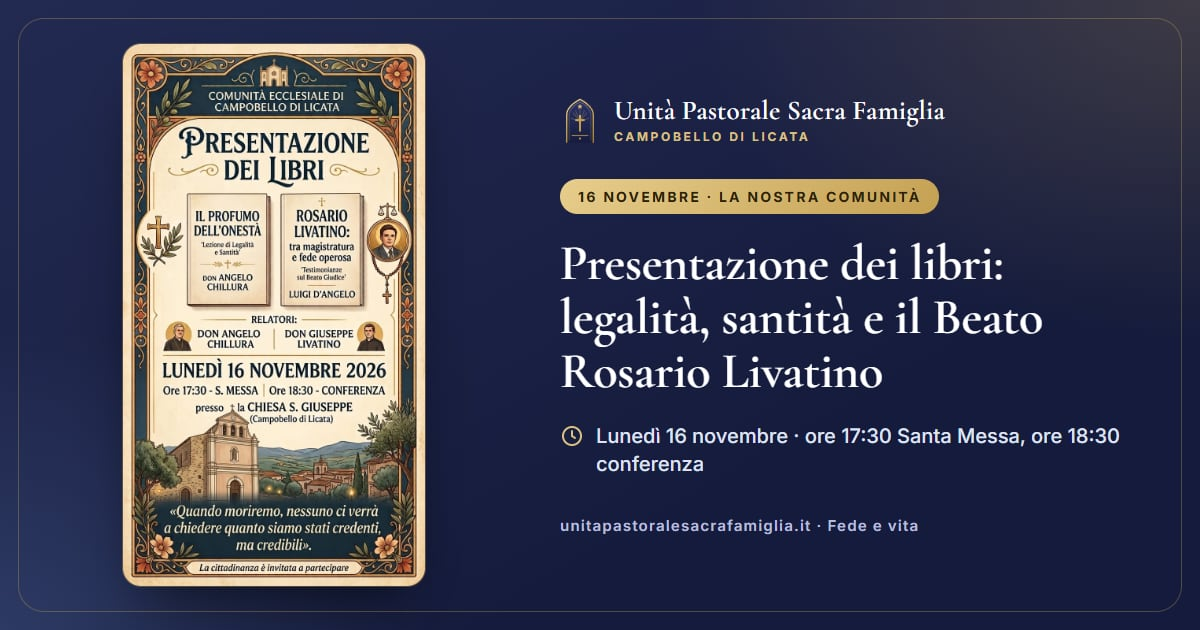
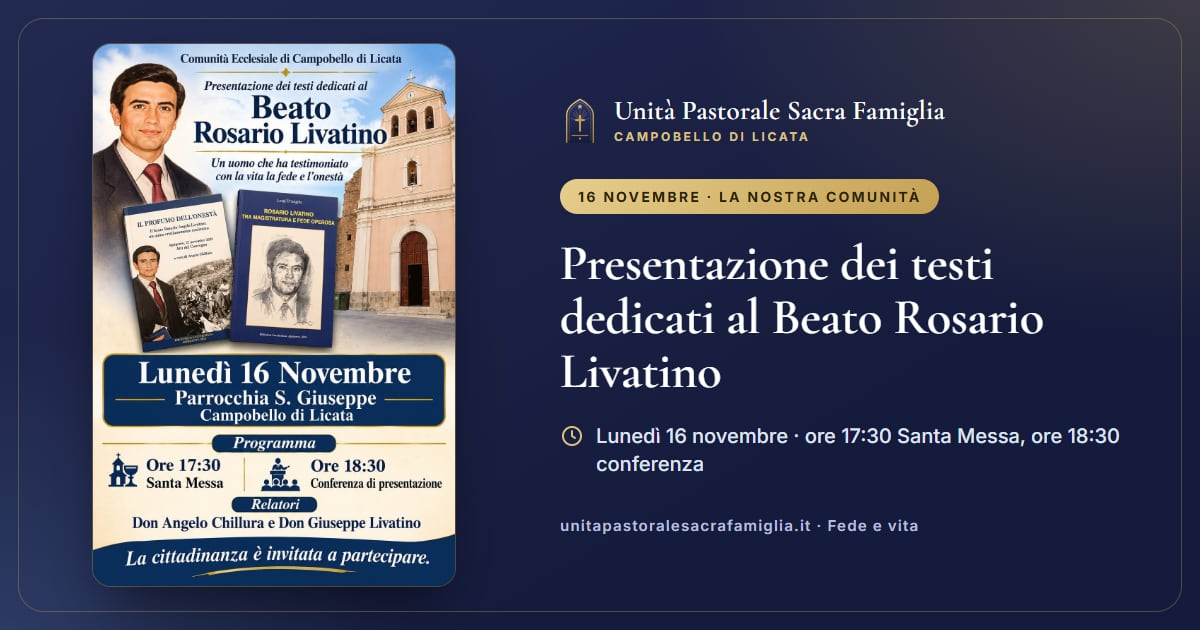
Messa nella Cappella gentilizia di Gesù e Maria (4 novembre 2026): card in evidenza con galleria di 5 foto e condivisione; nuova locandina della presentazione dei testi sul Beato Rosario Livatino (16 novembre) con i titoli reali dei libri
Claude-Session: https://claude.ai/code/session_014ELeEckvHswvvwvchSjZ4Y

Changed region(s): [[0.0617, 0.0603, 0.4008, 0.9349], [0.4625, 0.4524, 0.8633, 0.6333], [0.74, 0.3921, 0.8325, 0.4524]]

diff --git a/fede-e-vita.html b/fede-e-vita.html
@@ -67,7 +67,7 @@
 {"@context": "https://schema.org", "@type": "Event", "name": "Oratorio Terza Età… per tutte le età — Oratorio Gesù e Maria", "startDate": "2026-10-20T15:45:00+02:00", "eventStatus": "https://schema.org/EventScheduled", "eventSchedule": {"@type": "Schedule", "repeatFrequency": "P1W", "byDay": "https://schema.org/Tuesday", "startTime": "15:45", "scheduleTimezone": "Europe/Rome"}, "eventAttendanceMode": "https://schema.org/OfflineEventAttendanceMode", "location": {"@type": "Place", "name": "Oratorio della Parrocchia Gesù e Maria", "address": {"@type": "PostalAddress", "addressLocality": "Campobello di Licata", "addressRegion": "AG", "postalCode": "92023", "addressCountry": "IT"}}, "image": "https://www.unitapastoralesacrafamiglia.it/assets/img/avvisi/oratorio-terza-eta.jpg", "description": "Ogni martedì alle 15:45 nell'Oratorio Gesù e Maria: momenti di stare insieme, ognuno con il proprio talento e arte (ricamo, uncinetto, lavoro a maglia e ai ferri, tombolo, merletto ad ago). Per la terza età e per tutte le età.", "audience": {"@type": "PeopleAudience", "audienceType": "Terza età e persone di tutte le età"}, "organizer": {"@type": "Organization", "name": "Unità Pastorale Sacra Famiglia", "url": "https://www.unitapastoralesacrafamiglia.it/"}, "isAccessibleForFree": true}
 </script>
 <script type="application/ld+json">
-{"@context": "https://schema.org", "@type": "Event", "name": "Presentazione dei libri «Il profumo dell'onestà» e «Rosario Livatino: tra magistratura e fede operosa»", "startDate": "2026-11-16T17:30:00+01:00", "eventStatus": "https://schema.org/EventScheduled", "eventAttendanceMode": "https://schema.org/OfflineEventAttendanceMode", "location": {"@type": "Church", "name": "Chiesa di San Giuseppe", "address": {"@type": "PostalAddress", "streetAddress": "Piazza San Giuseppe", "addressLocality": "Campobello di Licata", "addressRegion": "AG", "postalCode": "92023", "addressCountry": "IT"}}, "image": "https://www.unitapastoralesacrafamiglia.it/assets/img/avvisi/presentazione-libri-2026.jpg", "description": "Lunedì 16 novembre 2026 nella Chiesa di San Giuseppe: alle 17:30 Santa Messa, alle 18:30 conferenza di presentazione dei libri «Il profumo dell'onestà. Lezione di legalità e santità» di don Angelo Chillura e «Rosario Livatino: tra magistratura e fede operosa. Testimonianze sul Beato Giudice» di Luigi D'Angelo. Relatori: don Angelo Chillura e don Giuseppe Livatino. La cittadinanza è invitata a partecipare.", "performer": [{"@type": "Person", "name": "don Angelo Chillura"}, {"@type": "Person", "name": "don Giuseppe Livatino"}], "organizer": {"@type": "Organization", "name": "Unità Pastorale Sacra Famiglia", "url": "https://www.unitapastoralesacrafamiglia.it/"}, "isAccessibleForFree": true}
+{"@context": "https://schema.org", "@type": "Event", "name": "Presentazione dei testi dedicati al Beato Rosario Livatino: «Il profumo dell'onestà» e «Rosario Livatino tra magistratura e fede operosa»", "startDate": "2026-11-16T17:30:00+01:00", "eventStatus": "https://schema.org/EventScheduled", "eventAttendanceMode": "https://schema.org/OfflineEventAttendanceMode", "location": {"@type": "Church", "name": "Chiesa di San Giuseppe", "address": {"@type": "PostalAddress", "streetAddress": "Piazza San Giuseppe", "addressLocality": "Campobello di Licata", "addressRegion": "AG", "postalCode": "92023", "addressCountry": "IT"}}, "image": "https://www.unitapastoralesacrafamiglia.it/assets/img/avvisi/presentazione-libri-2026.jpg", "description": "Lunedì 16 novembre 2026 nella Chiesa di San Giuseppe: alle 17:30 Santa Messa, alle 18:30 conferenza di presentazione dei testi dedicati al Beato Rosario Livatino: «Il profumo dell'onestà. Il beato Rosario Angelo Livatino: un uomo cristianamente realizzato» (Atti del Convegno di Agrigento del 27 novembre 2025, a cura di don Angelo Chillura) e «Rosario Livatino tra magistratura e fede operosa» di Luigi D'Angelo. Relatori: don Angelo Chillura e don Giuseppe Livatino. La cittadinanza è invitata a partecipare.", "performer": [{"@type": "Person", "name": "don Angelo Chillura"}, {"@type": "Person", "name": "don Giuseppe Livatino"}], "organizer": {"@type": "Organization", "name": "Unità Pastorale Sacra Famiglia", "url": "https://www.unitapastoralesacrafamiglia.it/"}, "isAccessibleForFree": true}
 </script>
 </head>
 <body>
@@ -535,23 +535,23 @@
       <article class="fv-item" id="presentazione-libri-2026" data-cat="parrocchia" data-start="2026-11-16" data-end="2026-11-16" data-reveal>
         <div class="fv-date" aria-hidden="true"><span class="d">16</span><span class="m"><span data-lang-it>novembre</span><span data-lang-en>November</span></span><span class="y">2026</span></div>
         <div class="fv-card">
-          <button class="fv-poster" type="button" data-poster="assets/img/avvisi/presentazione-libri-2026.jpg" data-caption-it="Presentazione dei libri: legalità, santità e il Beato Rosario Livatino" data-caption-en="Book presentation: legality, holiness and Blessed Rosario Livatino" aria-label="Apri la locandina: Presentazione dei libri: legalità, santità e il Beato Rosario Livatino">
-            <img src="assets/img/avvisi/presentazione-libri-2026-t.jpg" alt="Locandina della Comunità Ecclesiale di Campobello di Licata: presentazione dei libri «Il profumo dell'onestà» di don Angelo Chillura e «Rosario Livatino: tra magistratura e fede operosa» di Luigi D'Angelo, relatori don Angelo Chillura e don Giuseppe Livatino, lunedì 16 novembre 2026, ore 17:30 Santa Messa e ore 18:30 conferenza nella Chiesa di San Giuseppe" loading="lazy" width="560" height="560">
+          <button class="fv-poster" type="button" data-poster="assets/img/avvisi/presentazione-libri-2026.jpg" data-caption-it="Presentazione dei testi dedicati al Beato Rosario Livatino" data-caption-en="Presentation of the books dedicated to Blessed Rosario Livatino" aria-label="Apri la locandina: Presentazione dei testi dedicati al Beato Rosario Livatino">
+            <img src="assets/img/avvisi/presentazione-libri-2026-t.jpg" alt="Locandina della Comunità Ecclesiale di Campobello di Licata: presentazione dei testi dedicati al Beato Rosario Livatino, con le copertine dei libri «Il profumo dell'onestà» a cura di Angelo Chillura e «Rosario Livatino tra magistratura e fede operosa» di Luigi D'Angelo e la facciata della Chiesa di San Giuseppe; lunedì 16 novembre 2026, ore 17:30 Santa Messa e ore 18:30 conferenza di presentazione, relatori don Angelo Chillura e don Giuseppe Livatino" loading="lazy" width="560" height="560">
             <span class="fv-zoom"><svg viewBox="0 0 24 24" fill="none" stroke="currentColor" stroke-width="2" stroke-linecap="round" stroke-linejoin="round"><circle cx="11" cy="11" r="7"/><path d="m20 20-4-4M11 8v6M8 11h6"/></svg><span data-lang-it>Locandina</span><span data-lang-en>Poster</span></span>
           </button>
           <div class="fv-body">
             <div class="fv-tags"><span class="fv-tag parrocchia"><span data-lang-it>La nostra comunità</span><span data-lang-en>Our community</span></span><span class="fv-flag"><span data-lang-it>Aperto a tutti</span><span data-lang-en>Open to all</span></span><span class="fv-status" hidden></span></div>
-            <h3 data-lang-it>Presentazione dei libri: legalità, santità e il Beato Rosario Livatino</h3><h3 data-lang-en>Book presentation: legality, holiness and Blessed Rosario Livatino</h3>
+            <h3 data-lang-it>Presentazione dei testi dedicati al Beato Rosario Livatino</h3><h3 data-lang-en>Presentation of the books dedicated to Blessed Rosario Livatino</h3>
             <div class="fv-when"><div class="fv-when-row"><svg viewBox="0 0 24 24" fill="none" stroke="currentColor" stroke-width="2" stroke-linecap="round" stroke-linejoin="round"><circle cx="12" cy="12" r="9"/><path d="M12 7v5l3 2"/></svg><span><span data-lang-it>Lunedì 16 novembre · ore 17:30 Santa Messa, ore 18:30 conferenza</span><span data-lang-en>Monday 16 November · 5:30 pm Holy Mass, 6:30 pm talk</span></span></div><div class="fv-when-row"><svg viewBox="0 0 24 24" fill="none" stroke="currentColor" stroke-width="2" stroke-linecap="round" stroke-linejoin="round"><path d="M12 21s-7-6.2-7-11a7 7 0 0 1 14 0c0 4.8-7 11-7 11Z"/><circle cx="12" cy="10" r="2.5"/></svg><span><span data-lang-it>Chiesa di San Giuseppe, Campobello di Licata</span><span data-lang-en>Church of San Giuseppe, Campobello di Licata</span></span></div></div>
-            <p data-lang-it>La Comunità Ecclesiale di Campobello di Licata presenta due libri che raccontano la fede vissuta nella giustizia e nell'onestà di ogni giorno, sulle orme del <strong>Beato Rosario Livatino</strong>, il giudice martire. Dopo la Santa Messa, la conferenza con i relatori. <strong>La cittadinanza è invitata a partecipare.</strong></p>
-            <p data-lang-en>The Church community of Campobello di Licata presents two books about faith lived out in justice and everyday honesty, following in the footsteps of <strong>Blessed Rosario Livatino</strong>, the martyred judge. After Holy Mass, a talk with the speakers. <strong>All citizens are warmly invited.</strong></p>
-            <ul class="fv-facts"><li><svg viewBox="0 0 24 24" fill="none" stroke="currentColor" stroke-width="2.4" stroke-linecap="round" stroke-linejoin="round"><path d="M20 6 9 17l-5-5"/></svg><span><span data-lang-it><strong>«Il profumo dell'onestà»</strong> — <em>Lezione di legalità e santità</em>, di <strong>don Angelo Chillura</strong>.</span><span data-lang-en><strong>«Il profumo dell'onestà»</strong> (The scent of honesty) — <em>a lesson in legality and holiness</em>, by <strong>Fr Angelo Chillura</strong>.</span></span></li><li><svg viewBox="0 0 24 24" fill="none" stroke="currentColor" stroke-width="2.4" stroke-linecap="round" stroke-linejoin="round"><path d="M20 6 9 17l-5-5"/></svg><span><span data-lang-it><strong>«Rosario Livatino: tra magistratura e fede operosa»</strong> — <em>Testimonianze sul Beato Giudice</em>, di <strong>Luigi D'Angelo</strong>.</span><span data-lang-en><strong>«Rosario Livatino: tra magistratura e fede operosa»</strong> (Rosario Livatino: between the judiciary and active faith) — <em>testimonies on the Blessed Judge</em>, by <strong>Luigi D'Angelo</strong>.</span></span></li><li><svg viewBox="0 0 24 24" fill="none" stroke="currentColor" stroke-width="2.4" stroke-linecap="round" stroke-linejoin="round"><path d="M20 6 9 17l-5-5"/></svg><span><span data-lang-it>Relatori: <strong>don Angelo Chillura</strong> e <strong>don Giuseppe Livatino</strong>.</span><span data-lang-en>Speakers: <strong>Fr Angelo Chillura</strong> and <strong>Fr Giuseppe Livatino</strong>.</span></span></li><li><svg viewBox="0 0 24 24" fill="none" stroke="currentColor" stroke-width="2.4" stroke-linecap="round" stroke-linejoin="round"><path d="M20 6 9 17l-5-5"/></svg><span><span data-lang-it>Ore <strong>17:30</strong> Santa Messa · ore <strong>18:30</strong> conferenza, nella Chiesa di San Giuseppe.</span><span data-lang-en><strong>5:30 pm</strong> Holy Mass · <strong>6:30 pm</strong> talk, in the Church of San Giuseppe.</span></span></li></ul>
+            <p data-lang-it>La Comunità Ecclesiale di Campobello di Licata presenta due libri dedicati al <strong>Beato Rosario Livatino</strong>, il giudice martire: <em>un uomo che ha testimoniato con la vita la fede e l'onestà</em>. Dopo la Santa Messa, la conferenza con i relatori. <strong>La cittadinanza è invitata a partecipare.</strong></p>
+            <p data-lang-en>The Church community of Campobello di Licata presents two books dedicated to <strong>Blessed Rosario Livatino</strong>, the martyred judge: <em>a man who bore witness with his life to faith and honesty</em>. After Holy Mass, a talk with the speakers. <strong>All citizens are warmly invited.</strong></p>
+            <ul class="fv-facts"><li><svg viewBox="0 0 24 24" fill="none" stroke="currentColor" stroke-width="2.4" stroke-linecap="round" stroke-linejoin="round"><path d="M20 6 9 17l-5-5"/></svg><span><span data-lang-it><strong>«Il profumo dell'onestà»</strong> — <em>Il beato Rosario Angelo Livatino: un uomo cristianamente realizzato</em>. Atti del Convegno di Agrigento del 27 novembre 2025, a cura di <strong>don Angelo Chillura</strong> (Biblioteca Lucchesiana, 2026).</span><span data-lang-en><strong>«Il profumo dell'onestà»</strong> (The scent of honesty) — <em>Blessed Rosario Angelo Livatino: a man fulfilled as a Christian</em>. Proceedings of the Agrigento conference of 27 November 2025, edited by <strong>Fr Angelo Chillura</strong> (Biblioteca Lucchesiana, 2026).</span></span></li><li><svg viewBox="0 0 24 24" fill="none" stroke="currentColor" stroke-width="2.4" stroke-linecap="round" stroke-linejoin="round"><path d="M20 6 9 17l-5-5"/></svg><span><span data-lang-it><strong>«Rosario Livatino tra magistratura e fede operosa»</strong> di <strong>Luigi D'Angelo</strong> (Biblioteca Lucchesiana, 2026).</span><span data-lang-en><strong>«Rosario Livatino tra magistratura e fede operosa»</strong> (Rosario Livatino: between the judiciary and active faith) by <strong>Luigi D'Angelo</strong> (Biblioteca Lucchesiana, 2026).</span></span></li><li><svg viewBox="0 0 24 24" fill="none" stroke="currentColor" stroke-width="2.4" stroke-linecap="round" stroke-linejoin="round"><path d="M20 6 9 17l-5-5"/></svg><span><span data-lang-it>Relatori: <strong>don Angelo Chillura</strong> e <strong>don Giuseppe Livatino</strong>.</span><span data-lang-en>Speakers: <strong>Fr Angelo Chillura</strong> and <strong>Fr Giuseppe Livatino</strong>.</span></span></li><li><svg viewBox="0 0 24 24" fill="none" stroke="currentColor" stroke-width="2.4" stroke-linecap="round" stroke-linejoin="round"><path d="M20 6 9 17l-5-5"/></svg><span><span data-lang-it>Ore <strong>17:30</strong> Santa Messa · ore <strong>18:30</strong> conferenza, nella Chiesa di San Giuseppe.</span><span data-lang-en><strong>5:30 pm</strong> Holy Mass · <strong>6:30 pm</strong> talk, in the Church of San Giuseppe.</span></span></li></ul>
             <blockquote class="fv-quote"><svg viewBox="0 0 24 24" fill="currentColor"><path d="M7 7h4v4c0 3-1.5 5-4 6l-.8-1.4C7.6 14.8 8.3 13.6 8.4 12H7V7Zm8 0h4v4c0 3-1.5 5-4 6l-.8-1.4c1.4-.8 2.1-2 2.2-3.6H15V7Z"/></svg><p><span data-lang-it>«Quando moriremo, nessuno ci verrà a chiedere quanto siamo stati credenti, ma credibili»</span><span data-lang-en>“When we die, no one will ask us how much we believed, but how believable we were”</span> <cite>Beato Rosario Livatino</cite></p></blockquote>
             
-            <div class="fv-share" data-share-bar data-url="https://www.unitapastoralesacrafamiglia.it/avviso/presentazione-libri-2026.html" data-title-it="Presentazione dei libri: legalità, santità e il Beato Rosario Livatino" data-title-en="Book presentation: legality, holiness and Blessed Rosario Livatino" data-when-it="Lunedì 16 novembre · ore 17:30 Santa Messa, ore 18:30 conferenza" data-when-en="Monday 16 November · 5:30 pm Holy Mass, 6:30 pm talk" data-img="assets/img/avvisi/presentazione-libri-2026.jpg" data-file="presentazione-libri-2026.jpg">
+            <div class="fv-share" data-share-bar data-url="https://www.unitapastoralesacrafamiglia.it/avviso/presentazione-libri-2026.html" data-title-it="Presentazione dei testi dedicati al Beato Rosario Livatino" data-title-en="Presentation of the books dedicated to Blessed Rosario Livatino" data-when-it="Lunedì 16 novembre · ore 17:30 Santa Messa, ore 18:30 conferenza" data-when-en="Monday 16 November · 5:30 pm Holy Mass, 6:30 pm talk" data-img="assets/img/avvisi/presentazione-libri-2026.jpg" data-file="presentazione-libri-2026.jpg">
               <span class="fv-share-lbl"><span data-lang-it>Condividi</span><span data-lang-en>Share</span></span>
               <div class="fv-share-btns">
-                <a class="sh sh-wa" data-sh="wa" href="https://wa.me/?text=%2APresentazione%20dei%20libri%3A%20legalit%C3%A0%2C%20santit%C3%A0%20e%20il%20Beato%20Rosario%20Livatino%2A%0ALuned%C3%AC%2016%20novembre%20%C2%B7%20ore%2017%3A30%20Santa%20Messa%2C%20ore%2018%3A30%20conferenza%0A%0Ahttps%3A%2F%2Fwww.unitapastoralesacrafamiglia.it%2Favviso%2Fpresentazione-libri-2026.html" target="_blank" rel="noopener"><svg viewBox="0 0 24 24" fill="currentColor" aria-hidden="true"><path d="M12.04 2a9.9 9.9 0 0 0-8.5 14.98L2 22l5.16-1.5A9.9 9.9 0 1 0 12.04 2Zm0 18.06a8.2 8.2 0 0 1-4.18-1.15l-.3-.18-3.06.9.9-2.98-.2-.31a8.17 8.17 0 1 1 6.84 3.72Zm4.5-6.12c-.25-.12-1.46-.72-1.69-.8-.23-.09-.39-.13-.56.12-.16.25-.64.8-.78.97-.14.16-.29.18-.54.06-.25-.12-1.04-.38-1.98-1.22-.73-.65-1.23-1.46-1.37-1.7-.14-.25-.02-.39.11-.51.11-.11.25-.29.37-.43.12-.15.16-.25.25-.41.08-.17.04-.31-.02-.43-.06-.13-.56-1.34-.76-1.84-.2-.48-.41-.42-.56-.42h-.48a.92.92 0 0 0-.67.31c-.23.25-.87.85-.87 2.08s.9 2.41 1.02 2.58c.12.16 1.76 2.69 4.27 3.77.6.26 1.06.41 1.42.52.6.19 1.14.16 1.57.1.48-.07 1.46-.6 1.67-1.18.2-.58.2-1.07.14-1.18-.06-.1-.23-.16-.48-.29Z"/></svg><span>WhatsApp</span></a>
+                <a class="sh sh-wa" data-sh="wa" href="https://wa.me/?text=%2APresentazione%20dei%20testi%20dedicati%20al%20Beato%20Rosario%20Livatino%2A%0ALuned%C3%AC%2016%20novembre%20%C2%B7%20ore%2017%3A30%20Santa%20Messa%2C%20ore%2018%3A30%20conferenza%0A%0Ahttps%3A%2F%2Fwww.unitapastoralesacrafamiglia.it%2Favviso%2Fpresentazione-libri-2026.html" target="_blank" rel="noopener"><svg viewBox="0 0 24 24" fill="currentColor" aria-hidden="true"><path d="M12.04 2a9.9 9.9 0 0 0-8.5 14.98L2 22l5.16-1.5A9.9 9.9 0 1 0 12.04 2Zm0 18.06a8.2 8.2 0 0 1-4.18-1.15l-.3-.18-3.06.9.9-2.98-.2-.31a8.17 8.17 0 1 1 6.84 3.72Zm4.5-6.12c-.25-.12-1.46-.72-1.69-.8-.23-.09-.39-.13-.56.12-.16.25-.64.8-.78.97-.14.16-.29.18-.54.06-.25-.12-1.04-.38-1.98-1.22-.73-.65-1.23-1.46-1.37-1.7-.14-.25-.02-.39.11-.51.11-.11.25-.29.37-.43.12-.15.16-.25.25-.41.08-.17.04-.31-.02-.43-.06-.13-.56-1.34-.76-1.84-.2-.48-.41-.42-.56-.42h-.48a.92.92 0 0 0-.67.31c-.23.25-.87.85-.87 2.08s.9 2.41 1.02 2.58c.12.16 1.76 2.69 4.27 3.77.6.26 1.06.41 1.42.52.6.19 1.14.16 1.57.1.48-.07 1.46-.6 1.67-1.18.2-.58.2-1.07.14-1.18-.06-.1-.23-.16-.48-.29Z"/></svg><span>WhatsApp</span></a>
                 <a class="sh sh-fb" data-sh="fb" href="https://www.facebook.com/sharer/sharer.php?u=https%3A%2F%2Fwww.unitapastoralesacrafamiglia.it%2Favviso%2Fpresentazione-libri-2026.html" target="_blank" rel="noopener"><svg viewBox="0 0 24 24" fill="currentColor" aria-hidden="true"><path d="M13.5 21.9v-7.4H16l.4-3h-2.9V9.6c0-.86.25-1.45 1.49-1.45H16.6V5.47a21 21 0 0 0-2.3-.12c-2.28 0-3.84 1.39-3.84 3.95v2.2H7.9v3h2.56v7.4A10 10 0 1 1 13.5 21.9Z"/></svg><span>Facebook</span></a>
                 <button class="sh sh-ig" data-sh="ig" type="button"><svg viewBox="0 0 24 24" fill="none" stroke="currentColor" stroke-width="2" stroke-linecap="round" stroke-linejoin="round" aria-hidden="true"><rect x="3" y="3" width="18" height="18" rx="5"/><circle cx="12" cy="12" r="4"/><circle cx="17.5" cy="6.5" r=".6" fill="currentColor"/></svg><span>Instagram</span></button>
                 <button class="sh sh-link" data-sh="link" type="button"><svg viewBox="0 0 24 24" fill="none" stroke="currentColor" stroke-width="2" stroke-linecap="round" stroke-linejoin="round" aria-hidden="true"><path d="M10 14a4.5 4.5 0 0 0 6.4 0l3-3a4.5 4.5 0 0 0-6.4-6.4l-1.1 1.1"/><path d="M14 10a4.5 4.5 0 0 0-6.4 0l-3 3a4.5 4.5 0 0 0 6.4 6.4l1.1-1.1"/></svg><span data-lang-it>Copia link</span><span data-lang-en>Copy link</span></button>

diff --git a/vita-parrocchiale.html b/vita-parrocchiale.html
@@ -245,17 +245,17 @@
     </div>
     <div class="notice-card" id="presentazione-libri" style="margin-top:1.6rem" data-reveal>
       <div class="poster">
-        <img src="assets/img/avvisi/presentazione-libri-2026-t.jpg" alt="Locandina della Comunità Ecclesiale di Campobello di Licata: presentazione dei libri «Il profumo dell'onestà» di don Angelo Chillura e «Rosario Livatino: tra magistratura e fede operosa» di Luigi D'Angelo, lunedì 16 novembre 2026 nella Chiesa di San Giuseppe" loading="lazy" decoding="async" width="560" height="1003">
+        <img src="assets/img/avvisi/presentazione-libri-2026-t.jpg" alt="Locandina della Comunità Ecclesiale di Campobello di Licata: presentazione dei testi dedicati al Beato Rosario Livatino, «Il profumo dell'onestà» a cura di Angelo Chillura e «Rosario Livatino tra magistratura e fede operosa» di Luigi D'Angelo, lunedì 16 novembre 2026 nella Parrocchia San Giuseppe" loading="lazy" decoding="async" width="560" height="840">
       </div>
       <div>
         <span class="notice-chip">
           <svg viewBox="0 0 24 24" fill="none" stroke="currentColor" stroke-width="2" stroke-linecap="round" stroke-linejoin="round"><path d="M4 19.5V5a2 2 0 0 1 2-2h13v15H6a2 2 0 0 0-2 2Zm0 0A2 2 0 0 0 6 21h13"/><path d="M9 7h6M9 10.5h4"/></svg>
           <span data-lang-it>La cittadinanza è invitata</span><span data-lang-en>All citizens are invited</span>
         </span>
-        <h2 style="font-size:clamp(1.7rem,3.2vw,2.4rem)" data-lang-it>Presentazione dei libri</h2>
-        <h2 style="font-size:clamp(1.7rem,3.2vw,2.4rem)" data-lang-en>Book presentation</h2>
-        <p class="lead mt-1" data-lang-it><strong>«Il profumo dell'onestà»</strong> di don Angelo Chillura e <strong>«Rosario Livatino: tra magistratura e fede operosa»</strong> di Luigi D'Angelo. Relatori: don Angelo Chillura e don Giuseppe Livatino. <em>«Quando moriremo, nessuno ci verrà a chiedere quanto siamo stati credenti, ma credibili».</em></p>
-        <p class="lead mt-1" data-lang-en><strong>«Il profumo dell'onestà»</strong> (The scent of honesty) by Fr Angelo Chillura and <strong>«Rosario Livatino: tra magistratura e fede operosa»</strong> by Luigi D'Angelo. Speakers: Fr Angelo Chillura and Fr Giuseppe Livatino. <em>“When we die, no one will ask us how much we believed, but how believable we were.”</em></p>
+        <h2 style="font-size:clamp(1.7rem,3.2vw,2.4rem)" data-lang-it>Presentazione dei testi dedicati al Beato Rosario Livatino</h2>
+        <h2 style="font-size:clamp(1.7rem,3.2vw,2.4rem)" data-lang-en>Presentation of the books dedicated to Blessed Rosario Livatino</h2>
+        <p class="lead mt-1" data-lang-it><em>Un uomo che ha testimoniato con la vita la fede e l'onestà.</em> <strong>«Il profumo dell'onestà»</strong>, atti del convegno a cura di don Angelo Chillura, e <strong>«Rosario Livatino tra magistratura e fede operosa»</strong> di Luigi D'Angelo. Relatori: don Angelo Chillura e don Giuseppe Livatino. <em>«Quando moriremo, nessuno ci verrà a chiedere quanto siamo stati credenti, ma credibili».</em></p>
+        <p class="lead mt-1" data-lang-en><em>A man who bore witness with his life to faith and honesty.</em> <strong>«Il profumo dell'onestà»</strong> (The scent of honesty), conference proceedings edited by Fr Angelo Chillura, and <strong>«Rosario Livatino tra magistratura e fede operosa»</strong> by Luigi D'Angelo. Speakers: Fr Angelo Chillura and Fr Giuseppe Livatino. <em>“When we die, no one will ask us how much we believed, but how believable we were.”</em></p>
         <div class="notice-meta">
           <span><svg viewBox="0 0 24 24" fill="none" stroke="currentColor" stroke-width="2" stroke-linecap="round" stroke-linejoin="round"><rect x="3" y="4" width="18" height="18" rx="2"/><path d="M16 2v4M8 2v4M3 10h18"/></svg><span data-lang-it>Lunedì 16 novembre</span><span data-lang-en>Monday 16 November</span></span>
           <span><svg viewBox="0 0 24 24" fill="none" stroke="currentColor" stroke-width="2" stroke-linecap="round" stroke-linejoin="round"><circle cx="12" cy="12" r="9"/><path d="M12 7v5l3 2"/></svg><span data-lang-it>17:30 Santa Messa · 18:30 conferenza</span><span data-lang-en>5:30 pm Holy Mass · 6:30 pm talk</span></span>
@@ -355,6 +355,27 @@
     <div class="grid g-3">
       <!-- Ogni card di «Momenti di comunità» ha: id (ancora), data-gallery, voce nel MAN in fondo alla pagina e barra
            di condivisione .fv-share.on-dark che punta a /momento/<id>.html. Dopo ogni modifica: node build-share-momenti.js -->
+      <!-- 00. In evidenza: Messa nella Cappella gentilizia di Gesù e Maria (cimitero, 4 novembre 2026) — card a tutta larghezza -->
+      <article class="church-card event featured" id="messa-cappella-gesu-e-maria" data-gallery="cappella-gesu-e-maria" role="button" tabindex="0" aria-label="Apri la galleria fotografica: Messa nella Cappella gentilizia di Gesù e Maria, 4 novembre 2026" data-reveal>
+        <span class="photo" style="background-image:url('assets/img/evento-cappella-gesu-e-maria.jpg')"></span>
+        <span class="count-badge"><svg viewBox="0 0 24 24" fill="none" stroke="currentColor" stroke-width="2" stroke-linecap="round" stroke-linejoin="round"><rect x="3" y="3" width="14" height="14" rx="2"/><path d="M21 7v12a2 2 0 0 1-2 2H7"/></svg>5</span>
+        <div class="body">
+          <span class="kicker"><svg viewBox="0 0 24 24" fill="none" stroke="currentColor" stroke-width="2" stroke-linecap="round" stroke-linejoin="round"><path d="M12 2v20M5 8h14"/></svg><span data-lang-it>4 novembre 2026 · Suffragio dei defunti</span><span data-lang-en>4 November 2026 · Prayer for the departed</span></span>
+          <h3 data-lang-it>Messa nella Cappella gentilizia di Gesù e Maria</h3><h3 data-lang-en>Mass in the Gesù e Maria memorial chapel</h3>
+          <p data-lang-it>Nel mese dedicato al ricordo dei defunti la comunità si è raccolta nella Cappella gentilizia di Gesù e Maria, al cimitero, per la santa Messa di suffragio: i canti accompagnati dalla chitarra, la preghiera tra i fiori e i nomi dei nostri cari, la benedizione e una foto tutti insieme. Un momento semplice e intenso di fede e di memoria.</p>
+          <p data-lang-en>In the month dedicated to remembering the departed, the community gathered in the Gesù e Maria memorial chapel at the cemetery for a Mass of suffrage: hymns accompanied by guitar, prayer among the flowers and the names of our loved ones, the blessing and a photo all together. A simple, heartfelt moment of faith and remembrance.</p>
+          <span class="more"><svg viewBox="0 0 24 24" fill="none" stroke="currentColor" stroke-width="2" stroke-linecap="round" stroke-linejoin="round"><rect x="3" y="3" width="18" height="14" rx="2"/><circle cx="8.5" cy="8.5" r="1.5"/><path d="m21 14-5-5L5 21"/></svg><span data-lang-it>Sfoglia le foto</span><span data-lang-en>Browse the photos</span></span>
+          <div class="fv-share on-dark" data-share-bar data-url="https://www.unitapastoralesacrafamiglia.it/momento/messa-cappella-gesu-e-maria.html" data-title-it="Messa nella Cappella gentilizia di Gesù e Maria" data-title-en="Mass in the Gesù e Maria memorial chapel" data-when-it="4 novembre 2026 · 5 foto" data-when-en="4 November 2026 · 5 photos" data-img="assets/img/evento-cappella-gesu-e-maria.jpg" data-file="messa-cappella-gesu-e-maria.jpg">
+          <span class="fv-share-lbl"><span data-lang-it>Condividi</span><span data-lang-en>Share</span></span>
+          <div class="fv-share-btns">
+          <a class="sh sh-wa" data-sh="wa" href="https://wa.me/?text=%2AMessa%20nella%20Cappella%20gentilizia%20di%20Ges%C3%B9%20e%20Maria%2A%0A4%20novembre%202026%20%C2%B7%205%20foto%0A%0Ahttps%3A%2F%2Fwww.unitapastoralesacrafamiglia.it%2Fmomento%2Fmessa-cappella-gesu-e-maria.html" target="_blank" rel="noopener"><svg viewBox="0 0 24 24" fill="currentColor" aria-hidden="true"><path d="M12.04 2a9.9 9.9 0 0 0-8.5 14.98L2 22l5.16-1.5A9.9 9.9 0 1 0 12.04 2Zm0 18.06a8.2 8.2 0 0 1-4.18-1.15l-.3-.18-3.06.9.9-2.98-.2-.31a8.17 8.17 0 1 1 6.84 3.72Zm4.5-6.12c-.25-.12-1.46-.72-1.69-.8-.23-.09-.39-.13-.56.12-.16.25-.64.8-.78.97-.14.16-.29.18-.54.06-.25-.12-1.04-.38-1.98-1.22-.73-.65-1.23-1.46-1.37-1.7-.14-.25-.02-.39.11-.51.11-.11.25-.29.37-.43.12-.15.16-.25.25-.41.08-.17.04-.31-.02-.43-.06-.13-.56-1.34-.76-1.84-.2-.48-.41-.42-.56-.42h-.48a.92.92 0 0 0-.67.31c-.23.25-.87.85-.87 2.08s.9 2.41 1.02 2.58c.12.16 1.76 2.69 4.27 3.77.6.26 1.06.41 1.42.52.6.19 1.14.16 1.57.1.48-.07 1.46-.6 1.67-1.18.2-.58.2-1.07.14-1.18-.06-.1-.23-.16-.48-.29Z"/></svg><span>WhatsApp</span></a>
+          <a class="sh sh-fb" data-sh="fb" href="https://www.facebook.com/sharer/sharer.php?u=https%3A%2F%2Fwww.unitapastoralesacrafamiglia.it%2Fmomento%2Fmessa-cappella-gesu-e-maria.html" target="_blank" rel="noopener"><svg viewBox="0 0 24 24" fill="currentColor" aria-hidden="true"><path d="M13.5 21.9v-7.4H16l.4-3h-2.9V9.6c0-.86.25-1.45 1.49-1.45H16.6V5.47a21 21 0 0 0-2.3-.12c-2.28 0-3.84 1.39-3.84 3.95v2.2H7.9v3h2.56v7.4A10 10 0 1 1 13.5 21.9Z"/></svg><span>Facebook</span></a>
+          <button class="sh sh-ig" data-sh="ig" type="button"><svg viewBox="0 0 24 24" fill="none" stroke="currentColor" stroke-width="2" stroke-linecap="round" stroke-linejoin="round" aria-hidden="true"><rect x="3" y="3" width="18" height="18" rx="5"/><circle cx="12" cy="12" r="4"/><circle cx="17.5" cy="6.5" r=".6" fill="currentColor"/></svg><span>Instagram</span></button>
+          <button class="sh sh-link" data-sh="link" type="button"><svg viewBox="0 0 24 24" fill="none" stroke="currentColor" stroke-width="2" stroke-linecap="round" stroke-linejoin="round" aria-hidden="true"><path d="M10 14a4.5 4.5 0 0 0 6.4 0l3-3a4.5 4.5 0 0 0-6.4-6.4l-1.1 1.1"/><path d="M14 10a4.5 4.5 0 0 0-6.4 0l-3 3a4.5 4.5 0 0 0 6.4 6.4l1.1-1.1"/></svg><span data-lang-it>Copia link</span><span data-lang-en>Copy link</span></button>
+          </div>
+          </div>
+        </div>
+      </article>
       <!-- 0a. In evidenza: Primo incontro con Padre Roberto sulla spiritualità carmelitana (Chiesa di San Giuseppe) — card a tutta larghezza -->
       <article class="church-card event featured" id="spiritualita-carmelitana" data-gallery="carmelitana" role="button" tabindex="0" aria-label="Apri la galleria fotografica: primo incontro con Padre Roberto sulla spiritualità carmelitana" data-reveal>
         <span class="photo" style="background-image:url('assets/img/evento-carmelitana.jpg')"></span>
@@ -709,6 +730,7 @@
    Le foto stanno in assets/img/gallery/<chiave>/NN.jpg (+ NN-t.jpg miniatura). */
 (function () {
   var MAN = {
+    'cappella-gesu-e-maria': { n: 5, it: "Messa nella Cappella gentilizia di Gesù e Maria", en: "Mass in the Gesù e Maria memorial chapel" },
     'carmelitana':   { n: 9,  it: "Spiritualità carmelitana con Padre Roberto", en: "Carmelite spirituality with Fr. Roberto" },
     'lectio-martedi': { n: 7, it: "Lectio Divina del martedì",    en: "Tuesday Lectio Divina" },
     'sillitti':      { n: 7,  it: "Visita alla casa di riposo Sillitti", en: "Visiting the Sillitti care home" },

diff --git a/avviso/presentazione-libri-2026.html b/avviso/presentazione-libri-2026.html
@@ -4,22 +4,22 @@
 <meta charset="UTF-8">
 <meta name="viewport" content="width=device-width, initial-scale=1">
 <!-- Pagina ponte generata da build-share-avvisi.js: anteprima social dell'avviso, poi rimanda alla bacheca. -->
-<title>Presentazione dei libri: legalità, santità e il Beato Rosario Livatino · Unità Pastorale Sacra Famiglia</title>
-<meta name="description" content="Lunedì 16 novembre · ore 17:30 Santa Messa, ore 18:30 conferenza — La Comunità Ecclesiale di Campobello di Licata presenta due libri che raccontano la fede vissuta nella giustizia e nell'onestà di ogni giorno, sulle orme del Beato Rosario…">
+<title>Presentazione dei testi dedicati al Beato Rosario Livatino · Unità Pastorale Sacra Famiglia</title>
+<meta name="description" content="Lunedì 16 novembre · ore 17:30 Santa Messa, ore 18:30 conferenza — La Comunità Ecclesiale di Campobello di Licata presenta due libri dedicati al Beato Rosario Livatino, il giudice martire: un uomo che ha testimoniato con la vita la fede e…">
 <meta name="robots" content="noindex, follow">
 <link rel="canonical" href="https://www.unitapastoralesacrafamiglia.it/fede-e-vita.html">
 <meta property="og:type" content="article">
 <meta property="og:site_name" content="Unità Pastorale Sacra Famiglia">
 <meta property="og:locale" content="it_IT">
-<meta property="og:title" content="Presentazione dei libri: legalità, santità e il Beato Rosario Livatino">
-<meta property="og:description" content="Lunedì 16 novembre · ore 17:30 Santa Messa, ore 18:30 conferenza — La Comunità Ecclesiale di Campobello di Licata presenta due libri che raccontano la fede vissuta nella giustizia e nell'onestà di ogni giorno, sulle orme del Beato Rosario…">
+<meta property="og:title" content="Presentazione dei testi dedicati al Beato Rosario Livatino">
+<meta property="og:description" content="Lunedì 16 novembre · ore 17:30 Santa Messa, ore 18:30 conferenza — La Comunità Ecclesiale di Campobello di Licata presenta due libri dedicati al Beato Rosario Livatino, il giudice martire: un uomo che ha testimoniato con la vita la fede e…">
 <meta property="og:url" content="https://www.unitapastoralesacrafamiglia.it/avviso/presentazione-libri-2026.html">
 <meta property="og:image" content="https://www.unitapastoralesacrafamiglia.it/assets/img/avvisi/og/presentazione-libri-2026.jpg">
 <meta property="og:image:width" content="1200"><meta property="og:image:height" content="630">
-<meta property="og:image:alt" content="Presentazione dei libri: legalità, santità e il Beato Rosario Livatino">
+<meta property="og:image:alt" content="Presentazione dei testi dedicati al Beato Rosario Livatino">
 <meta name="twitter:card" content="summary_large_image">
-<meta name="twitter:title" content="Presentazione dei libri: legalità, santità e il Beato Rosario Livatino">
-<meta name="twitter:description" content="Lunedì 16 novembre · ore 17:30 Santa Messa, ore 18:30 conferenza — La Comunità Ecclesiale di Campobello di Licata presenta due libri che raccontano la fede vissuta nella giustizia e nell'onestà di ogni giorno, sulle orme del Beato Rosario…">
+<meta name="twitter:title" content="Presentazione dei testi dedicati al Beato Rosario Livatino">
+<meta name="twitter:description" content="Lunedì 16 novembre · ore 17:30 Santa Messa, ore 18:30 conferenza — La Comunità Ecclesiale di Campobello di Licata presenta due libri dedicati al Beato Rosario Livatino, il giudice martire: un uomo che ha testimoniato con la vita la fede e…">
 <meta name="twitter:image" content="https://www.unitapastoralesacrafamiglia.it/assets/img/avvisi/og/presentazione-libri-2026.jpg">
 <meta name="theme-color" content="#151b3c">
 <link rel="icon" href="../favicon.svg" type="image/svg+xml">
@@ -27,6 +27,6 @@
 <style>body{margin:0;min-height:100vh;display:grid;place-items:center;background:#151b3c;color:#fff;font:16px/1.5 system-ui,sans-serif;text-align:center;padding:24px}a{color:#dcc082}</style>
 </head>
 <body>
-<p>Presentazione dei libri: legalità, santità e il Beato Rosario Livatino<br><a href="../fede-e-vita.html#presentazione-libri-2026">Apri l'avviso sul sito dell'Unità Pastorale Sacra Famiglia</a></p>
+<p>Presentazione dei testi dedicati al Beato Rosario Livatino<br><a href="../fede-e-vita.html#presentazione-libri-2026">Apri l'avviso sul sito dell'Unità Pastorale Sacra Famiglia</a></p>
 </body>
 </html>

diff --git a/momento/messa-cappella-gesu-e-maria.html b/momento/messa-cappella-gesu-e-maria.html
@@ -1,0 +1,32 @@
+<!DOCTYPE html>
+<html lang="it">
+<head>
+<meta charset="UTF-8">
+<meta name="viewport" content="width=device-width, initial-scale=1">
+<!-- Pagina ponte generata da build-share-momenti.js: anteprima social del momento di comunità, poi rimanda alla galleria. -->
+<title>Messa nella Cappella gentilizia di Gesù e Maria · Unità Pastorale Sacra Famiglia</title>
+<meta name="description" content="4 novembre 2026 · 5 foto — Nel mese dedicato al ricordo dei defunti la comunità si è raccolta nella Cappella gentilizia di Gesù e Maria, al cimitero, per la santa Messa di suffragio: i canti accompagnati…">
+<meta name="robots" content="noindex, follow">
+<link rel="canonical" href="https://www.unitapastoralesacrafamiglia.it/vita-parrocchiale.html">
+<meta property="og:type" content="article">
+<meta property="og:site_name" content="Unità Pastorale Sacra Famiglia">
+<meta property="og:locale" content="it_IT">
+<meta property="og:title" content="Messa nella Cappella gentilizia di Gesù e Maria">
+<meta property="og:description" content="4 novembre 2026 · 5 foto — Nel mese dedicato al ricordo dei defunti la comunità si è raccolta nella Cappella gentilizia di Gesù e Maria, al cimitero, per la santa Messa di suffragio: i canti accompagnati…">
+<meta property="og:url" content="https://www.unitapastoralesacrafamiglia.it/momento/messa-cappella-gesu-e-maria.html">
+<meta property="og:image" content="https://www.unitapastoralesacrafamiglia.it/assets/img/momenti/og/messa-cappella-gesu-e-maria.jpg">
+<meta property="og:image:width" content="1200"><meta property="og:image:height" content="630">
+<meta property="og:image:alt" content="Messa nella Cappella gentilizia di Gesù e Maria">
+<meta name="twitter:card" content="summary_large_image">
+<meta name="twitter:title" content="Messa nella Cappella gentilizia di Gesù e Maria">
+<meta name="twitter:description" content="4 novembre 2026 · 5 foto — Nel mese dedicato al ricordo dei defunti la comunità si è raccolta nella Cappella gentilizia di Gesù e Maria, al cimitero, per la santa Messa di suffragio: i canti accompagnati…">
+<meta name="twitter:image" content="https://www.unitapastoralesacrafamiglia.it/assets/img/momenti/og/messa-cappella-gesu-e-maria.jpg">
+<meta name="theme-color" content="#151b3c">
+<link rel="icon" href="../favicon.svg" type="image/svg+xml">
+<script>location.replace("../vita-parrocchiale.html#messa-cappella-gesu-e-maria");</script>
+<style>body{margin:0;min-height:100vh;display:grid;place-items:center;background:#151b3c;color:#fff;font:16px/1.5 system-ui,sans-serif;text-align:center;padding:24px}a{color:#dcc082}</style>
+</head>
+<body>
+<p>Messa nella Cappella gentilizia di Gesù e Maria<br><a href="../vita-parrocchiale.html#messa-cappella-gesu-e-maria">Guarda le foto sul sito dell'Unità Pastorale Sacra Famiglia</a></p>
+</body>
+</html>

diff --git a/build-messa-cappella.js b/build-messa-cappella.js
@@ -1,0 +1,26 @@
+// Galleria "Messa nella Cappella gentilizia di Gesù e Maria" (4 novembre 2026, cimitero) + copertina card in evidenza.
+const fs = require('fs');
+const path = require('path');
+const sharp = require('C:/workspace/social-image-generator/node_modules/sharp');
+const SRC = path.join(__dirname, 'images', 'Messa nella Cappella Gentilizia di Gesù e Maria.  04 novembre 2026');
+const OUT = path.join(__dirname, 'assets', 'img', 'gallery', 'cappella-gesu-e-maria');
+// ordine: l'assemblea nella cappella (orizzontale, copertina) → benedizione → canti con la chitarra → elevazione → foto di gruppo
+const ORDER = ['13a211af-a3f9-4a98-9ad3-fbcc26cc1232.jpg', '795c606c-b234-4650-92fe-d27960b6aa14.jpg',
+  '06f25cd6-a46a-45b6-a0e9-c54e836c2276.jpg', '0a82736a-bd6f-4d3e-b13c-fa7c705c2963.jpg',
+  'fdaa6626-8cc0-4f48-bd9a-7f5c47d1d742.jpg'];
+(async () => {
+  fs.rmSync(OUT, { recursive: true, force: true }); fs.mkdirSync(OUT, { recursive: true });
+  let i = 0;
+  for (const f of ORDER) {
+    i++; const nn = String(i).padStart(2, '0');
+    const img = sharp(path.join(SRC, f)).rotate();
+    await img.clone().resize({ width: 1400, height: 1400, fit: 'inside', withoutEnlargement: true })
+      .jpeg({ quality: 80, mozjpeg: true, progressive: true }).toFile(path.join(OUT, `${nn}.jpg`));
+    await img.clone().resize({ width: 260, height: 195, fit: 'cover', position: 'attention' })
+      .jpeg({ quality: 70, mozjpeg: true }).toFile(path.join(OUT, `${nn}-t.jpg`));
+  }
+  // copertina card in evidenza (larga): l'assemblea raccolta tra i loculi fiorati, il sacerdote all'altare in fondo
+  await sharp(path.join(SRC, ORDER[0])).rotate().resize({ width: 1600, height: 900, fit: 'cover', position: 'centre' })
+    .jpeg({ quality: 78, mozjpeg: true, progressive: true }).toFile(path.join(__dirname, 'assets', 'img', 'evento-cappella-gesu-e-maria.jpg'));
+  console.log('ok cappella-gesu-e-maria:', i, 'foto');
+})().catch(e => { console.error(e); process.exit(1); });

diff --git a/build-fede-vita.py b/build-fede-vita.py
@@ -354,14 +354,14 @@ items.append(item('carta-dedicata-a-te', 'vita', '2026-11-04', '2027-04-30', '4'
 
 # 5b) Lunedì 16 novembre — Presentazione dei libri (don Angelo Chillura; Luigi D'Angelo sul Beato Rosario Livatino)
 items.append(item('presentazione-libri-2026', 'parrocchia', '2026-11-16', '2026-11-16', '16', 'novembre', 'November', '2026',
-  'presentazione-libri-2026', "Locandina della Comunità Ecclesiale di Campobello di Licata: presentazione dei libri «Il profumo dell'onestà» di don Angelo Chillura e «Rosario Livatino: tra magistratura e fede operosa» di Luigi D'Angelo, relatori don Angelo Chillura e don Giuseppe Livatino, lunedì 16 novembre 2026, ore 17:30 Santa Messa e ore 18:30 conferenza nella Chiesa di San Giuseppe",
-  'Presentazione dei libri: legalità, santità e il Beato Rosario Livatino', 'Book presentation: legality, holiness and Blessed Rosario Livatino',
+  'presentazione-libri-2026', "Locandina della Comunità Ecclesiale di Campobello di Licata: presentazione dei testi dedicati al Beato Rosario Livatino, con le copertine dei libri «Il profumo dell'onestà» a cura di Angelo Chillura e «Rosario Livatino tra magistratura e fede operosa» di Luigi D'Angelo e la facciata della Chiesa di San Giuseppe; lunedì 16 novembre 2026, ore 17:30 Santa Messa e ore 18:30 conferenza di presentazione, relatori don Angelo Chillura e don Giuseppe Livatino",
+  'Presentazione dei testi dedicati al Beato Rosario Livatino', 'Presentation of the books dedicated to Blessed Rosario Livatino',
   [('clock', 'Lunedì 16 novembre · ore 17:30 Santa Messa, ore 18:30 conferenza', 'Monday 16 November · 5:30 pm Holy Mass, 6:30 pm talk'),
    ('pin', 'Chiesa di San Giuseppe, Campobello di Licata', 'Church of San Giuseppe, Campobello di Licata')],
-  "La Comunità Ecclesiale di Campobello di Licata presenta due libri che raccontano la fede vissuta nella giustizia e nell'onestà di ogni giorno, sulle orme del <strong>Beato Rosario Livatino</strong>, il giudice martire. Dopo la Santa Messa, la conferenza con i relatori. <strong>La cittadinanza è invitata a partecipare.</strong>",
-  "The Church community of Campobello di Licata presents two books about faith lived out in justice and everyday honesty, following in the footsteps of <strong>Blessed Rosario Livatino</strong>, the martyred judge. After Holy Mass, a talk with the speakers. <strong>All citizens are warmly invited.</strong>",
-  [("<strong>«Il profumo dell'onestà»</strong> — <em>Lezione di legalità e santità</em>, di <strong>don Angelo Chillura</strong>.", "<strong>«Il profumo dell'onestà»</strong> (The scent of honesty) — <em>a lesson in legality and holiness</em>, by <strong>Fr Angelo Chillura</strong>."),
-   ("<strong>«Rosario Livatino: tra magistratura e fede operosa»</strong> — <em>Testimonianze sul Beato Giudice</em>, di <strong>Luigi D'Angelo</strong>.", "<strong>«Rosario Livatino: tra magistratura e fede operosa»</strong> (Rosario Livatino: between the judiciary and active faith) — <em>testimonies on the Blessed Judge</em>, by <strong>Luigi D'Angelo</strong>."),
+  "La Comunità Ecclesiale di Campobello di Licata presenta due libri dedicati al <strong>Beato Rosario Livatino</strong>, il giudice martire: <em>un uomo che ha testimoniato con la vita la fede e l'onestà</em>. Dopo la Santa Messa, la conferenza con i relatori. <strong>La cittadinanza è invitata a partecipare.</strong>",
+  "The Church community of Campobello di Licata presents two books dedicated to <strong>Blessed Rosario Livatino</strong>, the martyred judge: <em>a man who bore witness with his life to faith and honesty</em>. After Holy Mass, a talk with the speakers. <strong>All citizens are warmly invited.</strong>",
+  [("<strong>«Il profumo dell'onestà»</strong> — <em>Il beato Rosario Angelo Livatino: un uomo cristianamente realizzato</em>. Atti del Convegno di Agrigento del 27 novembre 2025, a cura di <strong>don Angelo Chillura</strong> (Biblioteca Lucchesiana, 2026).", "<strong>«Il profumo dell'onestà»</strong> (The scent of honesty) — <em>Blessed Rosario Angelo Livatino: a man fulfilled as a Christian</em>. Proceedings of the Agrigento conference of 27 November 2025, edited by <strong>Fr Angelo Chillura</strong> (Biblioteca Lucchesiana, 2026)."),
+   ("<strong>«Rosario Livatino tra magistratura e fede operosa»</strong> di <strong>Luigi D'Angelo</strong> (Biblioteca Lucchesiana, 2026).", "<strong>«Rosario Livatino tra magistratura e fede operosa»</strong> (Rosario Livatino: between the judiciary and active faith) by <strong>Luigi D'Angelo</strong> (Biblioteca Lucchesiana, 2026)."),
    ("Relatori: <strong>don Angelo Chillura</strong> e <strong>don Giuseppe Livatino</strong>.", "Speakers: <strong>Fr Angelo Chillura</strong> and <strong>Fr Giuseppe Livatino</strong>."),
    ("Ore <strong>17:30</strong> Santa Messa · ore <strong>18:30</strong> conferenza, nella Chiesa di San Giuseppe.", "<strong>5:30 pm</strong> Holy Mass · <strong>6:30 pm</strong> talk, in the Church of San Giuseppe.")],
   extra=f'<blockquote class="fv-quote">{I["quote"]}<p><span data-lang-it>«Quando moriremo, nessuno ci verrà a chiedere quanto siamo stati credenti, ma credibili»</span><span data-lang-en>“When we die, no one will ask us how much we believed, but how believable we were”</span> <cite>Beato Rosario Livatino</cite></p></blockquote>',
@@ -606,11 +606,11 @@ ld = [
    "description": "Ogni martedì alle 15:45 nell'Oratorio Gesù e Maria: momenti di stare insieme, ognuno con il proprio talento e arte (ricamo, uncinetto, lavoro a maglia e ai ferri, tombolo, merletto ad ago). Per la terza età e per tutte le età.",
    "audience": {"@type": "PeopleAudience", "audienceType": "Terza età e persone di tutte le età"},
    "organizer": org, "isAccessibleForFree": True},
-  {"@context": "https://schema.org", "@type": "Event", "name": "Presentazione dei libri «Il profumo dell'onestà» e «Rosario Livatino: tra magistratura e fede operosa»",
+  {"@context": "https://schema.org", "@type": "Event", "name": "Presentazione dei testi dedicati al Beato Rosario Livatino: «Il profumo dell'onestà» e «Rosario Livatino tra magistratura e fede operosa»",
    "startDate": "2026-11-16T17:30:00+01:00", "eventStatus": "https://schema.org/EventScheduled",
    "eventAttendanceMode": "https://schema.org/OfflineEventAttendanceMode", "location": place("Chiesa di San Giuseppe", "Piazza San Giuseppe"),
    "image": "https://www.unitapastoralesacrafamiglia.it/assets/img/avvisi/presentazione-libri-2026.jpg",
-   "description": "Lunedì 16 novembre 2026 nella Chiesa di San Giuseppe: alle 17:30 Santa Messa, alle 18:30 conferenza di presentazione dei libri «Il profumo dell'onestà. Lezione di legalità e santità» di don Angelo Chillura e «Rosario Livatino: tra magistratura e fede operosa. Testimonianze sul Beato Giudice» di Luigi D'Angelo. Relatori: don Angelo Chillura e don Giuseppe Livatino. La cittadinanza è invitata a partecipare.",
+   "description": "Lunedì 16 novembre 2026 nella Chiesa di San Giuseppe: alle 17:30 Santa Messa, alle 18:30 conferenza di presentazione dei testi dedicati al Beato Rosario Livatino: «Il profumo dell'onestà. Il beato Rosario Angelo Livatino: un uomo cristianamente realizzato» (Atti del Convegno di Agrigento del 27 novembre 2025, a cura di don Angelo Chillura) e «Rosario Livatino tra magistratura e fede operosa» di Luigi D'Angelo. Relatori: don Angelo Chillura e don Giuseppe Livatino. La cittadinanza è invitata a partecipare.",
    "performer": [{"@type": "Person", "name": "don Angelo Chillura"}, {"@type": "Person", "name": "don Giuseppe Livatino"}],
    "organizer": org, "isAccessibleForFree": True},
 ]
